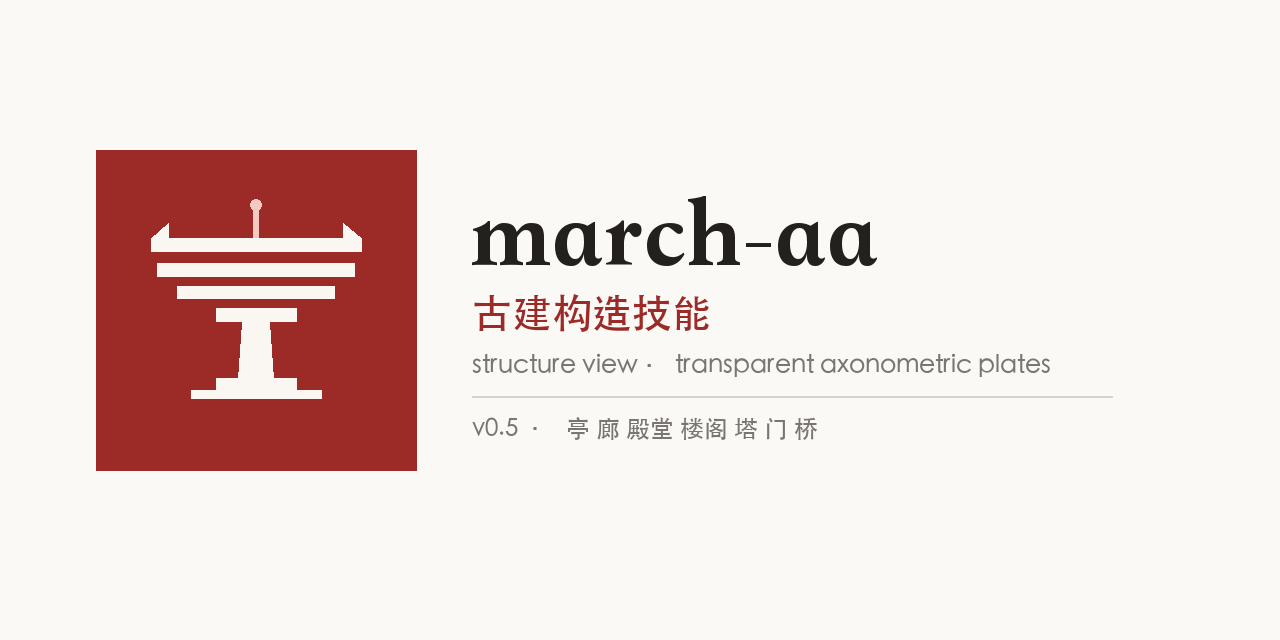
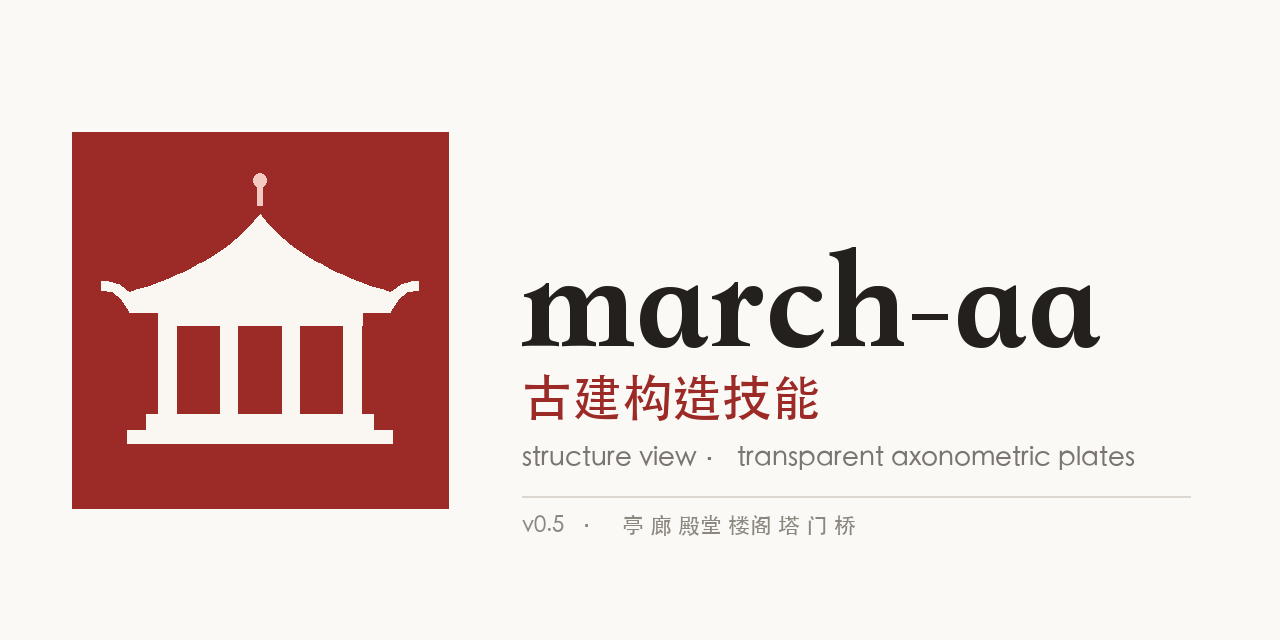
brand: 换成「亭」标识（v0.5）
- mark.svg / mark.png 重画：微凹两坡屋面 + 翘角厚檐 + 四柱 + 两级台基
- 新增 mark-light / mark-dark（反白）、favicon 16/32/48/180
- wordmark.png（2400×640，PIL 排字，GitHub 上不会掉字体）、social.png（1280×640）
- candidates/ 保留 5 个候选与对比图，便于回溯

Changed region(s): [[0.0312, 0.1875, 0.875, 0.8125], [0.4688, 0.8125, 0.6875, 0.8438], [0.4062, 0.8125, 0.4375, 0.8438]]

diff --git a/README.md b/README.md
@@ -1,5 +1,5 @@
 <p align="center">
-  <img src="march-aa-structure-view/assets/brand/wordmark.svg" alt="march-aa" width="720">
+  <img src="march-aa-structure-view/assets/brand/wordmark.png" alt="march-aa" width="720">
 </p>
 
 <p align="center">

diff --git a/march-aa-structure-view/README.md b/march-aa-structure-view/README.md
@@ -1,5 +1,5 @@
 <p align="center">
-  <img src="assets/brand/wordmark.svg" alt="march-aa · 古建构造技能" width="720">
+  <img src="assets/brand/wordmark.png" alt="march-aa · 古建构造技能" width="720">
 </p>
 
 <p align="center">
